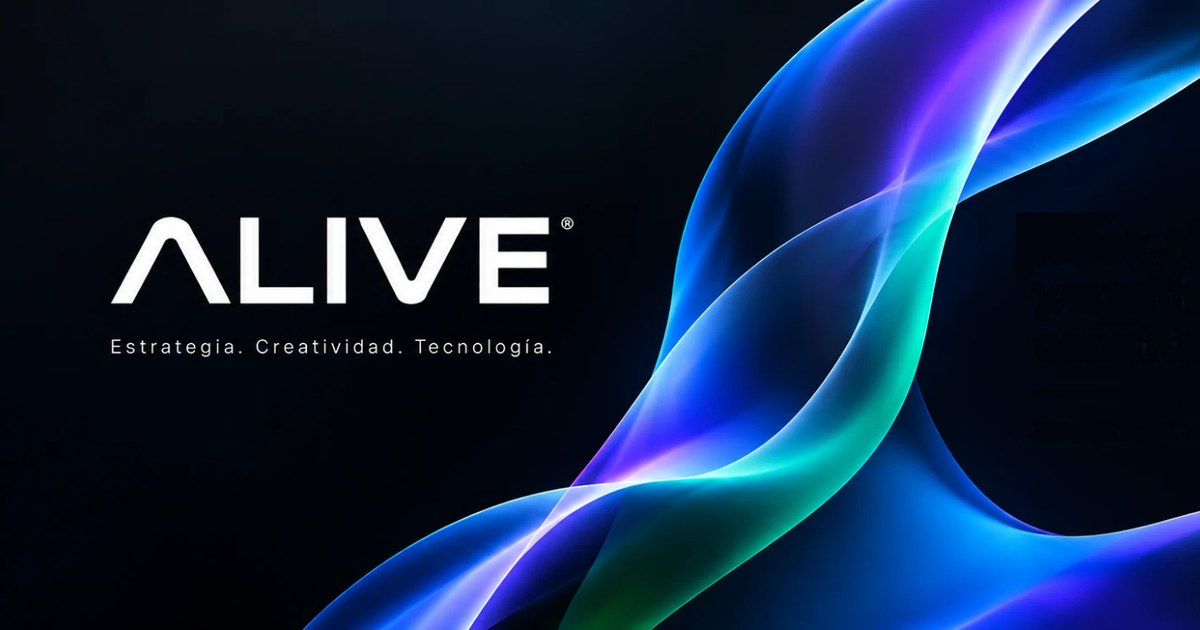
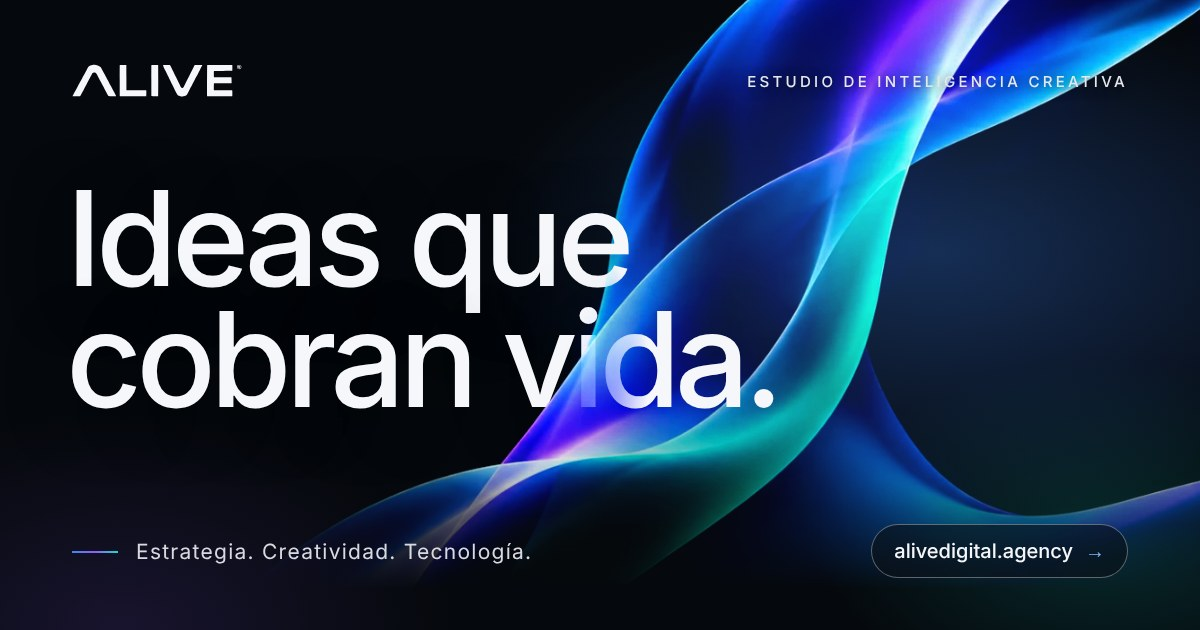
Miniatura para compartir, publicación cuadrada y paquete SEO
- og-image 1200×630 y post 1080×1080 con la cinta atravesando el titular.
- Title, description, Open Graph y X orientados al concepto de la agencia.
- JSON-LD Organization + WebSite, robots.txt, sitemap.xml, manifest e iconos.
- docs/SEO.md con todos los textos y copys para WhatsApp, LinkedIn e Instagram.

Claude-Session: https://claude.ai/code/session_01Fv4H8LLei8NxYoDGc9R5Vx

diff --git a/index.html b/index.html
@@ -3,26 +3,42 @@
   <head>
     <meta charset="UTF-8" />
     <meta name="viewport" content="width=device-width, initial-scale=1.0" />
-    <title>ALIVE | Estrategia, creatividad y tecnología</title>
+    <title>ALIVE | Estrategia, diseño y tecnología con IA aplicada</title>
     <meta
       name="description"
-      content="Estudio boutique de estrategia, diseño y tecnología. Creamos marcas, sitios web y experiencias digitales con inteligencia artificial aplicada."
+      content="Estudio boutique de inteligencia creativa. Unimos estrategia, diseño y tecnología para crear marcas, sitios web y experiencias digitales con IA aplicada."
     />
+    <meta name="robots" content="index, follow, max-image-preview:large" />
     <meta name="theme-color" content="#080F14" />
+    <meta name="color-scheme" content="dark" />
+
     <link rel="icon" type="image/svg+xml" href="/favicon.svg" />
+    <link rel="icon" type="image/png" sizes="192x192" href="/icon-192.png" />
+    <link rel="apple-touch-icon" href="/apple-touch-icon.png" />
+    <link rel="manifest" href="/site.webmanifest" />
+
+    <!-- Compartir: WhatsApp, LinkedIn, Facebook, X -->
     <meta property="og:type" content="website" />
     <meta property="og:locale" content="es_ES" />
     <meta property="og:site_name" content="ALIVE" />
-    <meta property="og:title" content="ALIVE | Estrategia, creatividad y tecnología" />
+    <meta property="og:title" content="ALIVE — Ideas que cobran vida" />
     <meta
       property="og:description"
-      content="Estudio boutique de estrategia, diseño y tecnología. Creamos marcas, sitios web y experiencias digitales con inteligencia artificial aplicada."
+      content="Estudio de inteligencia creativa. Damos vida a marcas, webs y experiencias digitales con estrategia, diseño y tecnología. Hablemos de tu proyecto."
     />
-    <meta property="og:image" content="/og-image.jpg" />
+    <meta property="og:image" content="/og-image.jpg?v=20261030" />
+    <meta property="og:image:type" content="image/jpeg" />
     <meta property="og:image:width" content="1200" />
     <meta property="og:image:height" content="630" />
-    <meta property="og:image:alt" content="ALIVE. Estrategia. Creatividad. Tecnología." />
+    <meta property="og:image:alt" content="ALIVE. Ideas que cobran vida. Estrategia, creatividad y tecnología." />
     <meta name="twitter:card" content="summary_large_image" />
+    <meta name="twitter:title" content="ALIVE — Ideas que cobran vida" />
+    <meta
+      name="twitter:description"
+      content="Estudio de inteligencia creativa: estrategia, diseño y tecnología para marcas, webs y experiencias digitales."
+    />
+    <meta name="twitter:image" content="/og-image.jpg?v=20261030" />
+    <!--alive:jsonld-->
   </head>
   <body>
     <div id="root"></div>

diff --git a/vite.config.ts b/vite.config.ts
@@ -1,16 +1,58 @@
 import react from '@vitejs/plugin-react'
 import { defineConfig, loadEnv, type Plugin } from 'vite'
 
-// Con VITE_SITE_URL (p. ej. https://alive.studio) añade canonical, og:url y
-// convierte og:image en URL absoluta. Sin ella, el HTML queda como está.
+// Con VITE_SITE_URL (p. ej. https://alivedigital.agency) la home recibe
+// canonical, og:url, imágenes con URL absoluta y datos estructurados JSON-LD.
+// Sin ella, el HTML queda como está.
+function jsonLd(base: string) {
+  const data = {
+    '@context': 'https://schema.org',
+    '@graph': [
+      {
+        '@type': 'Organization',
+        '@id': `${base}/#organization`,
+        name: 'ALIVE',
+        url: `${base}/`,
+        logo: `${base}/icon-512.png`,
+        image: `${base}/og-image.jpg`,
+        slogan: 'Estrategia. Creatividad. Tecnología.',
+        description:
+          'Estudio boutique de inteligencia creativa que combina estrategia, diseño y tecnología para crear marcas, sitios web y experiencias digitales.',
+        knowsAbout: [
+          'Estrategia digital',
+          'Posicionamiento de marca',
+          'Branding',
+          'Dirección de arte',
+          'Diseño UX/UI',
+          'Desarrollo web',
+          'Aplicaciones',
+          'Integraciones',
+          'Automatización',
+          'Inteligencia artificial aplicada',
+        ],
+      },
+      {
+        '@type': 'WebSite',
+        '@id': `${base}/#website`,
+        url: `${base}/`,
+        name: 'ALIVE',
+        inLanguage: 'es',
+        publisher: { '@id': `${base}/#organization` },
+      },
+    ],
+  }
+  return `<script type="application/ld+json">${JSON.stringify(data)}</script>`
+}
+
 function siteUrl(url: string | undefined): Plugin {
   return {
     name: 'alive-site-url',
     transformIndexHtml(html, ctx) {
-      if (!url || !ctx.path.endsWith('/index.html') || ctx.path.includes('privacidad')) return html
+      if (!url || ctx.path.includes('privacidad')) return html.replace('<!--alive:jsonld-->', '')
       const base = url.replace(/\/$/, '')
       return html
-        .replace('content="/og-image.jpg"', `content="${base}/og-image.jpg"`)
+        .replaceAll('content="/og-image.jpg', `content="${base}/og-image.jpg`)
+        .replace('<!--alive:jsonld-->', jsonLd(base))
         .replace(
           '</title>',
           `</title>\n    <link rel="canonical" href="${base}/" />\n    <meta property="og:url" content="${base}/" />`,

diff --git a/docs/SEO.md b/docs/SEO.md
@@ -1,0 +1,97 @@
+# SEO y textos para compartir — ALIVE
+
+Dominio principal: `https://alivedigital.agency` (la versión con `www` redirige aquí).
+Todo lo de este documento ya está aplicado en `index.html` y `vite.config.ts`, salvo los textos para publicaciones.
+
+## Concepto que guía los textos
+
+- **Posicionamiento:** un estudio de inteligencia creativa que construye lo que viene.
+- **Promesa:** Ideas que cobran vida.
+- **Firma:** Estrategia. Creatividad. Tecnología.
+- **Tono:** seguro, cercano, selectivo. Sin promesas de resultados, sin cifras, sin clientes que no estén confirmados.
+- **Términos de búsqueda que cubrimos de forma natural:** estudio creativo, estrategia digital, branding, diseño web, diseño UX/UI, desarrollo web, inteligencia artificial aplicada, automatización.
+
+## Buscadores (Google)
+
+| Campo | Texto | Longitud |
+|---|---|---|
+| Title | ALIVE \| Estrategia, diseño y tecnología con IA aplicada | 55 caracteres |
+| Meta description | Estudio boutique de inteligencia creativa. Unimos estrategia, diseño y tecnología para crear marcas, sitios web y experiencias digitales con IA aplicada. | 154 caracteres |
+
+El title recoge lo que la gente busca (estrategia, diseño, tecnología, IA). La marca ya aparece en el nombre del sitio.
+
+## Redes y mensajería (WhatsApp, LinkedIn, Facebook, X)
+
+| Campo | Texto |
+|---|---|
+| og:title / twitter:title | ALIVE — Ideas que cobran vida |
+| og:description | Estudio de inteligencia creativa. Damos vida a marcas, webs y experiencias digitales con estrategia, diseño y tecnología. Hablemos de tu proyecto. |
+| twitter:description | Estudio de inteligencia creativa: estrategia, diseño y tecnología para marcas, webs y experiencias digitales. |
+| Imagen | `public/og-image.jpg` (1200×630, 82 KB) |
+| Texto alternativo | ALIVE. Ideas que cobran vida. Estrategia, creatividad y tecnología. |
+
+En redes manda la emoción (la promesa); en Google, la claridad (qué hacemos).
+
+## Datos estructurados (JSON-LD)
+
+Se generan en el build cuando existe `VITE_SITE_URL`:
+- **Organization:** nombre, URL, logo, imagen, eslogan, descripción y áreas de conocimiento (los servicios de la web).
+- **WebSite:** idioma español, publicado por la organización.
+
+No incluyen dirección, teléfono ni redes porque aún no hay datos reales. Cuando existan, se añaden `address`, `telephone`, `email` y `sameAs` (perfiles sociales) en `vite.config.ts`.
+
+## Archivos técnicos
+
+- `robots.txt`: permite todo y apunta al sitemap.
+- `sitemap.xml`: home. Añadir `/privacidad/` cuando deje de ser borrador.
+- `site.webmanifest` e iconos (`apple-touch-icon.png` 180, `icon-192.png`, `icon-512.png`).
+- La página de privacidad tiene `noindex` mientras sea borrador.
+
+## Después de publicar
+
+1. **Google Search Console:** añadir la propiedad de dominio `alivedigital.agency` (verificación por registro TXT en GoDaddy) y enviar `https://alivedigital.agency/sitemap.xml`.
+2. **Refrescar la miniatura** si se compartió antes:
+   - Facebook y WhatsApp: https://developers.facebook.com/tools/debug/ y pulsa «Volver a extraer».
+   - LinkedIn: https://www.linkedin.com/post-inspector/
+   - WhatsApp guarda caché unos días; la URL de la imagen lleva `?v=20261030` para forzar la nueva. Si cambias la imagen, cambia también esa versión en `index.html`.
+3. **Comprobar datos estructurados:** https://search.google.com/test/rich-results
+
+## Textos para compartir
+
+### WhatsApp (mensaje corto con enlace)
+> Hemos lanzado la nueva web de ALIVE ✨
+> Somos un estudio de inteligencia creativa: estrategia, diseño y tecnología para dar vida a marcas, webs y experiencias digitales.
+> 👉 https://alivedigital.agency
+
+### Estado de WhatsApp / historia de Instagram
+Imagen: `docs/social/alive-post-1080.jpg`
+> Ideas que cobran vida. Nueva web → alivedigital.agency
+
+### LinkedIn
+> Hoy presentamos ALIVE, un estudio de inteligencia creativa.
+>
+> Trabajamos donde se cruzan la estrategia, el diseño y la tecnología: definimos qué construir y para quién, le damos forma con identidad y experiencia, y lo desarrollamos con soluciones inteligentes conectadas a necesidades reales.
+>
+> Si tienes una idea que quieres hacer realidad, empecemos por una buena conversación.
+>
+> https://alivedigital.agency
+>
+> #EstudioCreativo #EstrategiaDigital #Branding #DiseñoWeb #InteligenciaArtificial
+
+### Instagram (publicación cuadrada)
+Imagen: `docs/social/alive-post-1080.jpg`
+> Ideas que cobran vida.
+>
+> Somos ALIVE, un estudio de inteligencia creativa. Estrategia, diseño y tecnología para marcas, webs y experiencias digitales que se sienten vivas.
+>
+> Hablemos de tu proyecto → enlace en la bio.
+>
+> #alivedigital #estudiocreativo #branding #diseñoweb #estrategiadigital #uxui #inteligenciaartificial
+
+## Regenerar las imágenes
+
+```bash
+npm run social
+```
+
+Genera la miniatura OG, la publicación cuadrada y los iconos a partir de la marca y la escultura reales (`scripts/render-social.mjs`).

diff --git a/ASSETS.md b/ASSETS.md
@@ -6,10 +6,11 @@ Originales entregados (en `brand-source/`): banner de marca 2000×741 y símbolo
 |---|---|---|---|
 | Wordmark ALIVE con ® | `src/assets/brand/paths.ts`, `alive-wordmark.svg` | Vectorizado del banner oficial (potrace, ×4) | Fiel al original; sustituir por el SVG maestro de la guía si existe |
 | Símbolo A | `src/assets/brand/paths.ts`, `alive-symbol.svg` | Vectorizado del icono de app, sin ® | Igual que el anterior |
-| Favicon | `public/favicon.svg` | Símbolo A + anillo degradado del icono de app | Añadir `apple-touch-icon` 180 px desde el original |
+| Favicon e iconos | `public/favicon.svg`, `apple-touch-icon.png`, `icon-192.png`, `icon-512.png` | Símbolo A + anillo degradado del icono de app | Listos |
 | Escultura (hero) | `src/assets/visual/sculpture-hero.webp` 920×741, 149 KB | Banner oficial, textos eliminados, fondo transparente | Para pantallas retina conviene un original de 2400 px o más |
 | Escultura (cierre) | `src/assets/visual/sculpture-closing.webp` 1560×741, 182 KB | Igual que el anterior | Igual que el anterior |
-| Imagen Open Graph | `public/og-image.jpg` 1200×630 | Banner oficial con wordmark y firma | Lista |
+| Imagen Open Graph | `public/og-image.jpg` 1200×630 | Composición con titular, cinta real y dominio: `npm run social` | Lista |
+| Publicación cuadrada | `docs/social/alive-post-1080.jpg` 1080×1080 | Igual que la anterior | Lista |
 | Exploración «Concepto de experiencia web» | `src/assets/visual/concept-web-{1200,2400}.webp` | Render de escena HTML/CSS (monitor y móvil en perspectiva) con marca, escultura e Inter reales: `npm run explorations` | Listo para demo; sustituir por render o mockup del estudio si existe |
 | Exploración «Concepto de identidad» | `src/assets/visual/concept-identity-{1200,2400}.webp` | Render de papelería ALIVE sobre marfil (cuaderno con A en relieve, tarjetas, sobre) | Listo para demo; la fotografía real de papelería impresa lo superaría |
 | Tipografía Inter | `@fontsource-variable/inter` (autoalojada) | SIL Open Font License 1.1 | En uso, sustituto provisional de Suisse Int'l |

diff --git a/README.md b/README.md
@@ -12,6 +12,7 @@ npm run preview    # sirve dist/ en http://localhost:4173
 npm run lint       # oxlint
 npm run brand          # regenera escultura y OG desde brand-source/ (Python 3 + Pillow + NumPy)
 npm run explorations   # regenera los renders de las exploraciones (Playwright + Chromium)
+npm run social         # regenera miniatura OG, publicación cuadrada e iconos (Playwright + Chromium)
 ```
 
 ## Estructura
